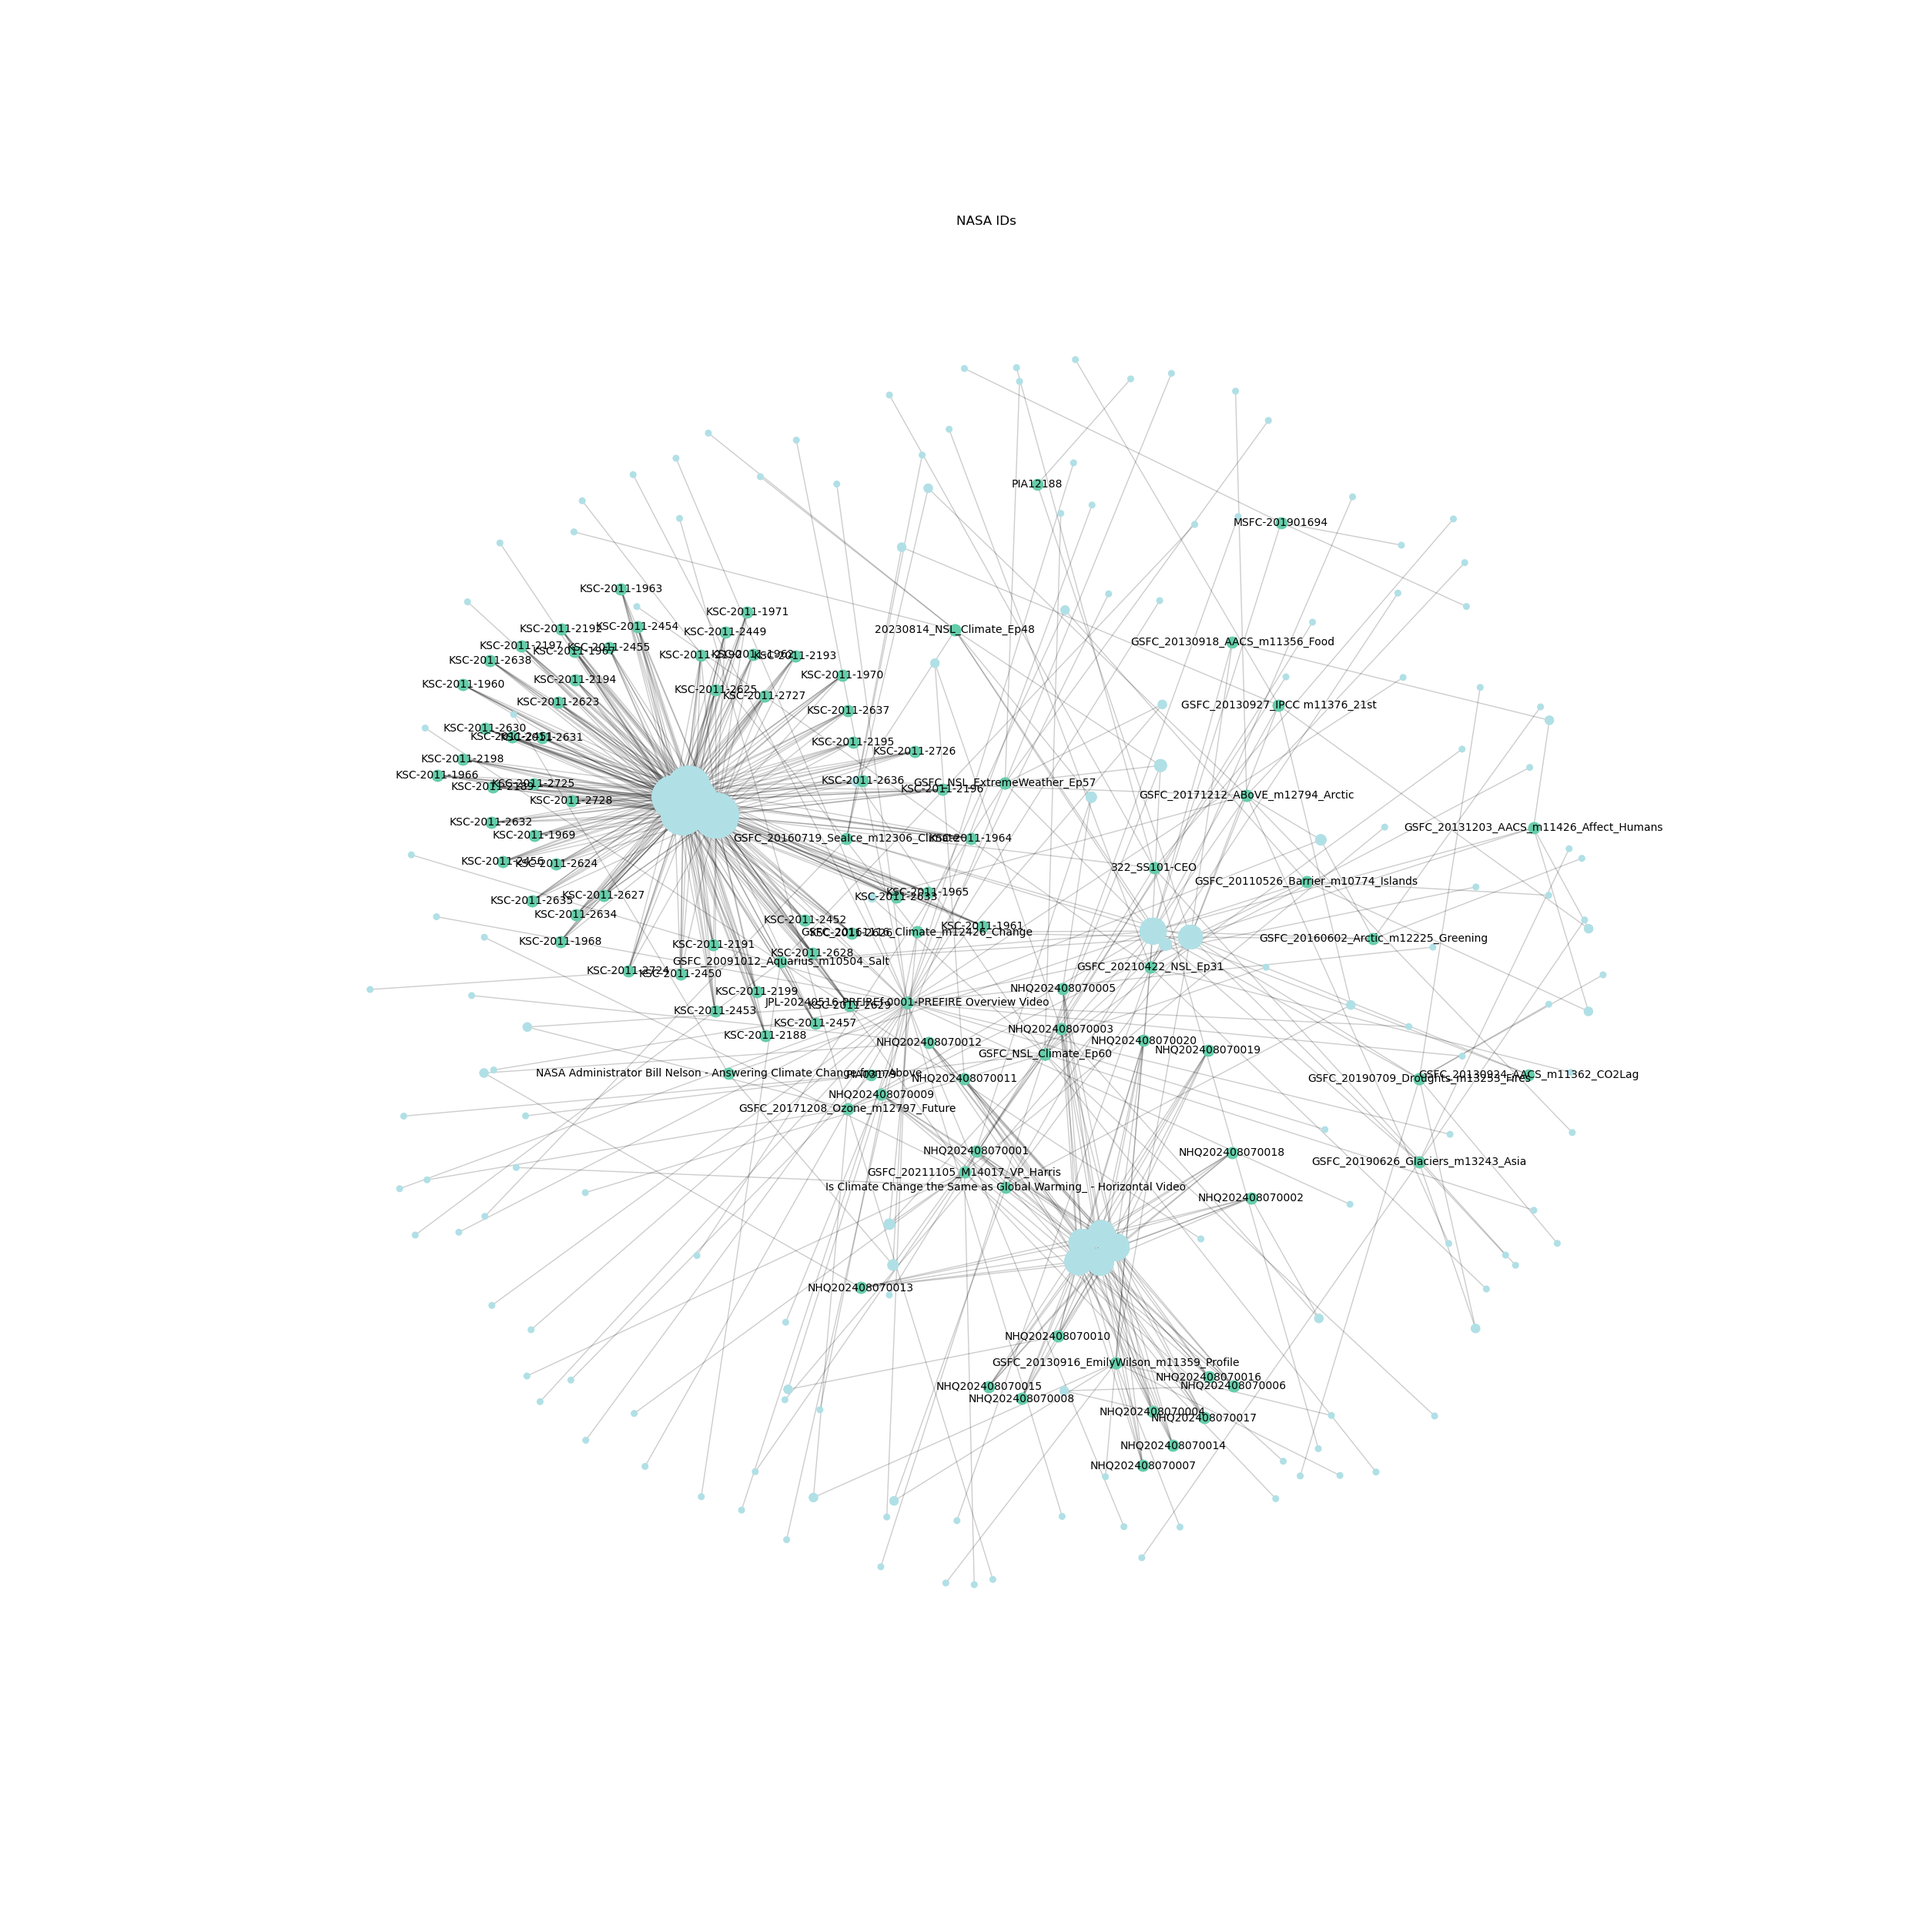
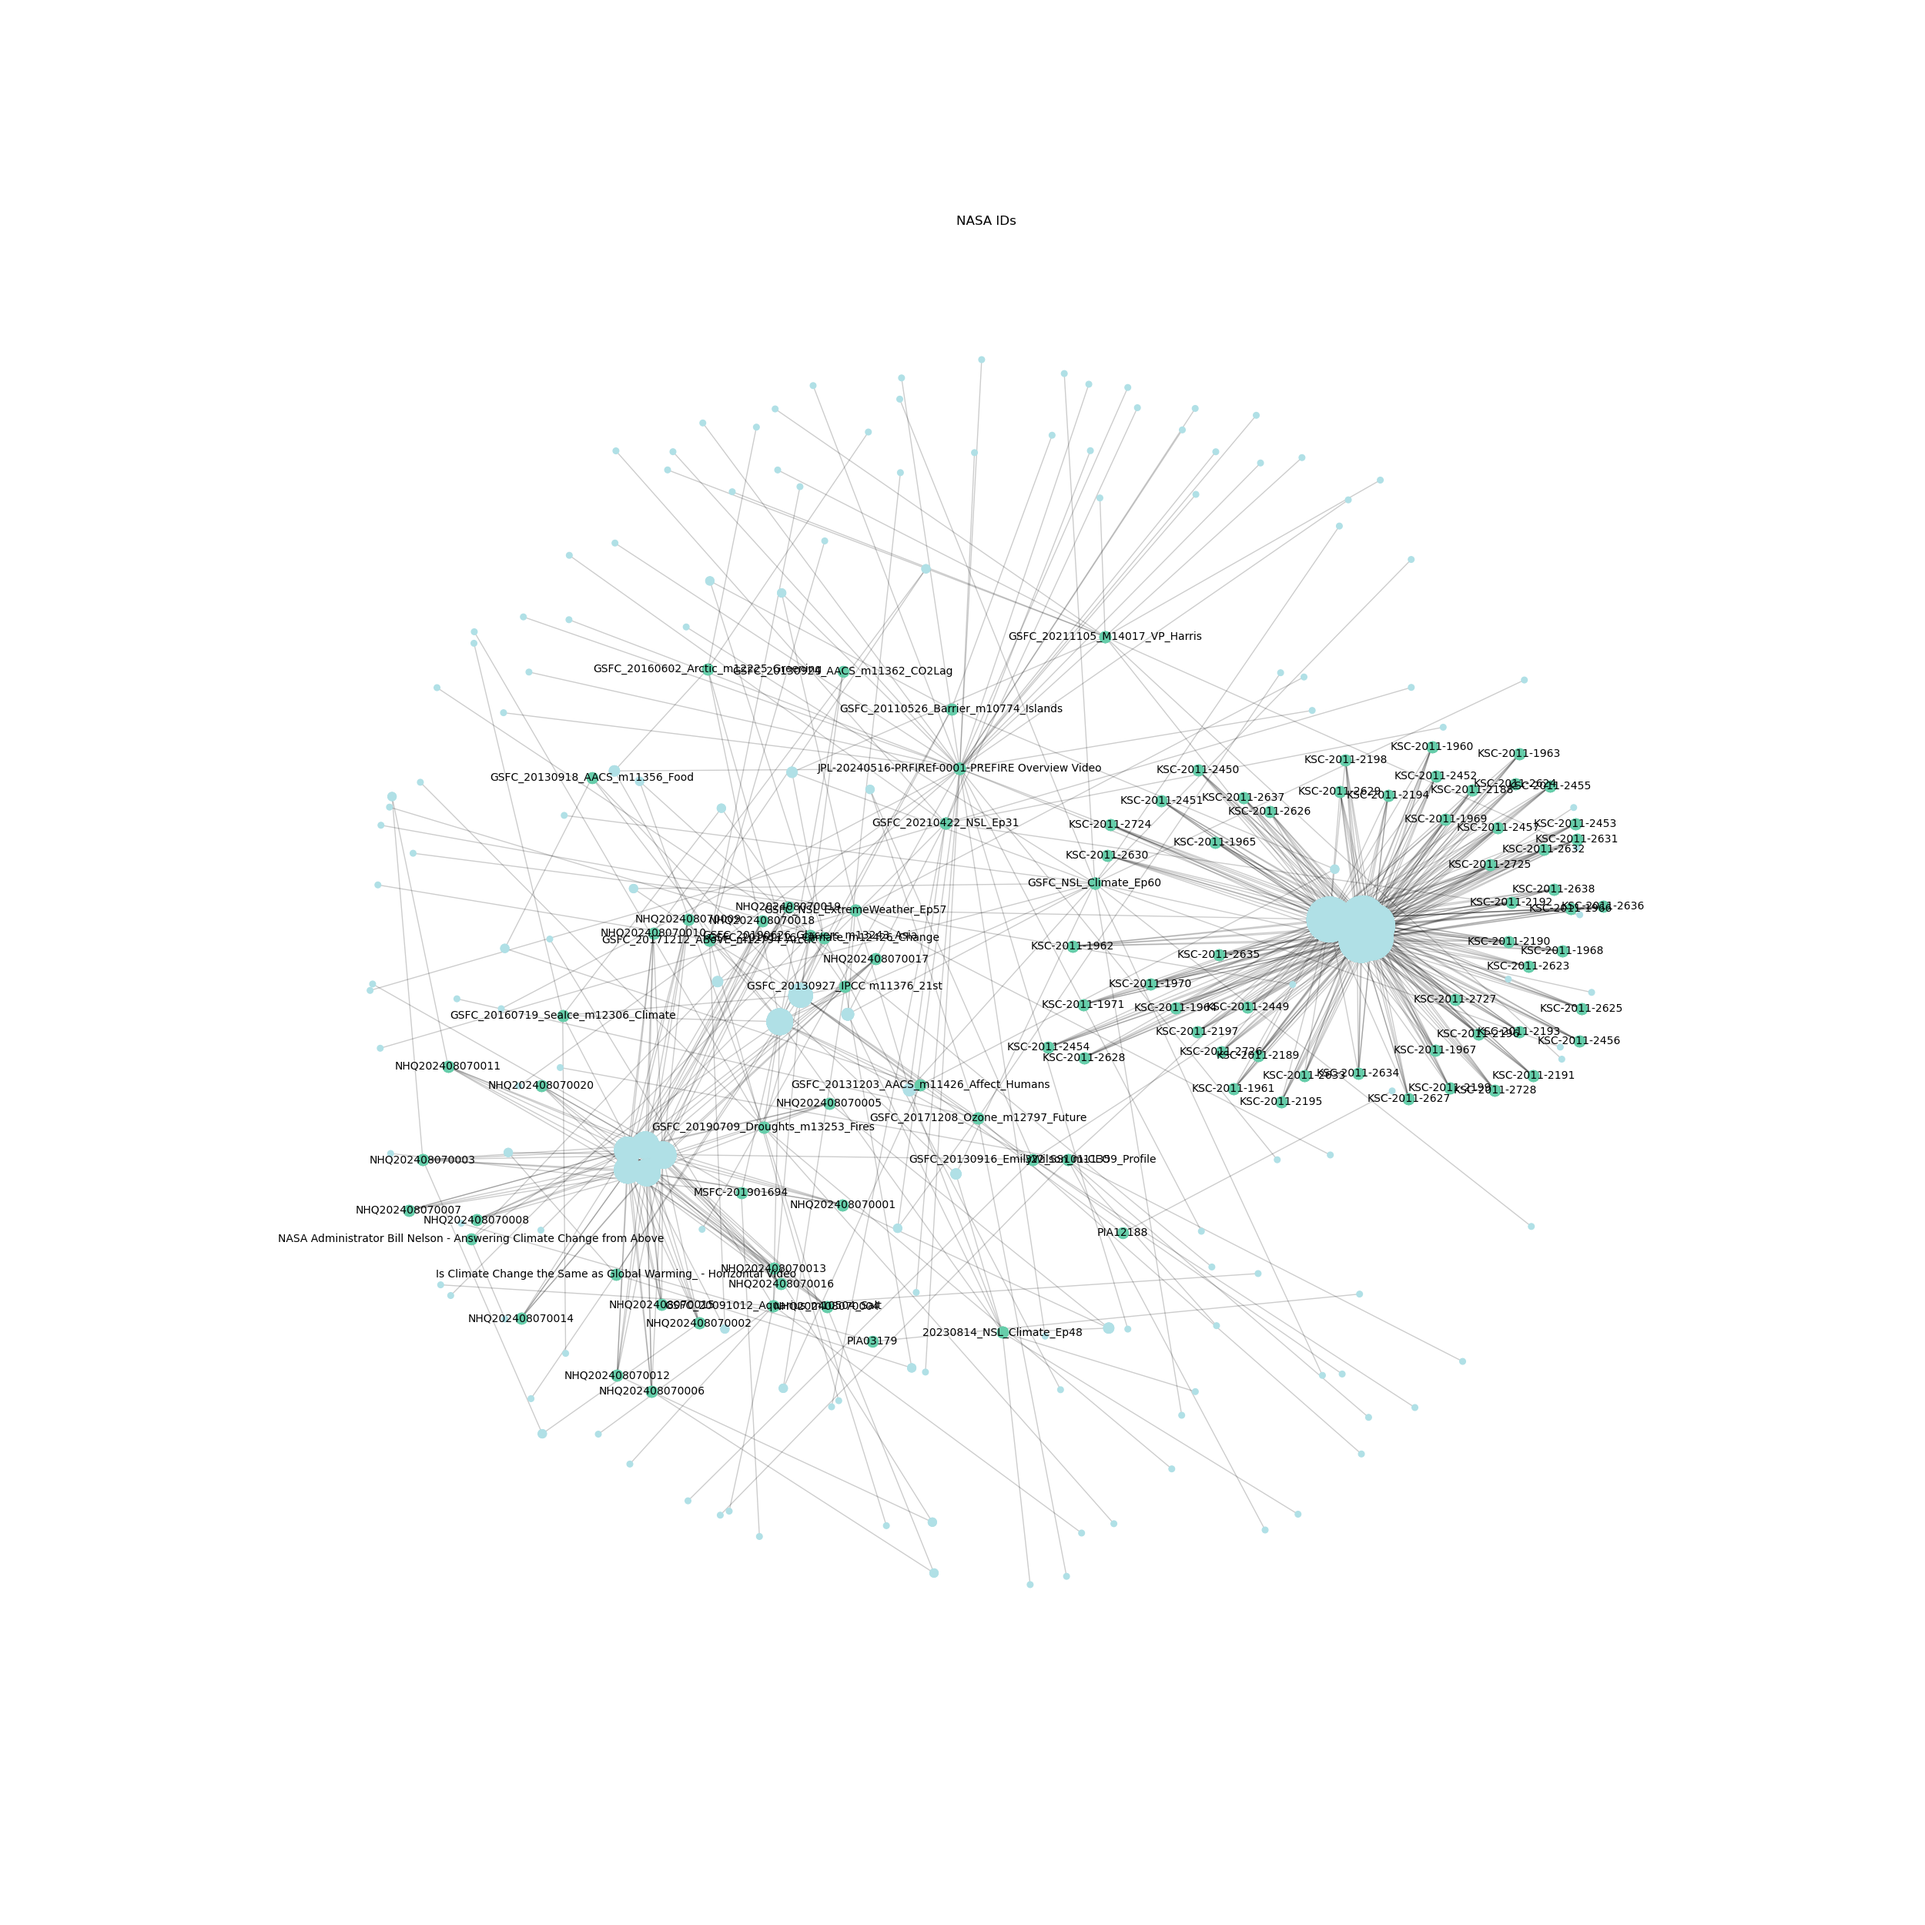
Updating description

diff --git a/index.md b/index.md
@@ -5,23 +5,22 @@ layout: default
 # Overview
 
 ### Goals
-My aim with this project was to use the NASA Image and Video Library to create visualizations to demonstrate the way language has been associated with images and videos over time. I wanted this project to encourage viewers to think about metadata and how we describe images.
+My aim with this project was to use the NASA Image and Video Library to create visualizations that demonstrate the way language is associated with images. I wanted this project to encourage viewers to think about metadata and how we describe images through keywords, titles, and decriptions. I also wanted to depict the words that appears frequently in the metadata of these images. Although these visualizations were created using a relatively small dataset, I hope that there is a depiction of the range of words that are related to different pieces of information about an image or video.
 
 ### Process
 1. I began with creating a data frame of the subjects I was interested in working with (keywords, titles, etc.).
-2. I attempted to paginate through about 18 pages of search results- I later realized this did not work.
-3. I used **OpenRefine** to organize the data and remove unecessary punctuation and text. I returned to OpenRefine frequently throughout this process to create various graphs.
-4. I created a few graphs and visualizations with the data from one page of search results (100 results total). I began by trying to make various bar charts, byt these did not work well with my data frame or in demonstrating how words were related to each other.
+2. I attempted to paginate through 18 pages of search results. I later realized this did not work.
+3. I used **OpenRefine** to organize the data and remove unecessary punctuation and text. I returned to OpenRefine frequently throughout this process to help in creating different graphs.
+4. I created a few graphs and visualizations with the data from one page of search results (100 results total). I began by trying to make various bar charts, but these did not work well with my data frame or in demonstrating how words were related to each other.
 5. I learned how to make word clouds, which guided my the visualizations I chose to make moving forward.
-6. I attempted to create a text network graph with **networkx**, it was successful but very messy, so I returned to working with the data.
-7. I created a new data frame that separated all of the keywords.
-8. I used this to create multiple text networks that displayed relationships between keywords, titles, and NASA IDs.
+6. I attempted to create a text network with **networkx**, it was successful but very messy, so I returned to working with the data in **OpenRefine**.
+7. I created a new data frame that separated all of the keywords and enabled me to create neater text networks.
+8. I used this to create text networks that displayed relationships between keywords, titles, and NASA IDs.
 
 ### Challenges
 - Unable to paginate through the results.
 - Because I could not get thorough data on the dates created for each image/video, it did not seem like I could create graphs that demonstrated anything accurate about the quantity of images/videos posted over time.
-- It took a while to figure out what graphs I could create interesting visualizations with using this data.
-- Had issues achieving some of the things I had hoped to do (connecting keywords or IDs to links to the photos, creating a hover feature over the text network graphs so that the text would be less cluttered, creating bar graphs that depicted the data in an interesting way)
+- Had issues achieving some of the things I had hoped to do (connecting keywords or IDs to links to the photos, creating a hover feature over the text network graphs so that the text would be more readable or include more information).
 
 ## Making a Data Frame
 ```
@@ -106,7 +105,7 @@ I created a few simple bar graphs that depict the counts of some of the data.
 ![Bar chart of the most frequent titles](images/titles_chart.png) ![Bar chart of the most frequently appearing keywords](images/keywords_chart.png)
 
 ## Word Clouds
-I learned how to create word clouds. This was a fun step in this process. It helped me better understand the data I was working with and some more direction on what I could create with it.
+I learned how to create word clouds. This step helped me better understand the data I was working with and provided me with more direction on what I could create with it.
 
 ### Word cloud based on keywords
 ![Text from keywords](images/nasa_wordcloud3.png)
@@ -119,11 +118,15 @@ I learned how to create word clouds. This was a fun step in this process. It hel
 
 
 ## Text Networks
-I ultimately decided to create text networks visualizations as a way to depict the connections between the many keywords in this data frame. This was another fun step that took some trial and error, and that gave me some practice with libraries in python including **networkx** and **matplotlib**. I also experimented with some libraries that I didn't end up using, but am hoping to learn more about, such as **bokeh** and **seaborn**.
+I ultimately decided to create text networks visualizations as a way to depict the connections between the keywords in this data frame. This step that took some trial and error, gave me lots of practice with libraries in python including **networkx** and **matplotlib**. I also experimented with some libraries that I didn't end up using, but am hoping to learn more about, such as **bokeh** and **seaborn**.
 
 ### Text network connecting keywords and NASA IDs (displaying keywords)
 
 ![Text network displaying keywords](images/keywords_display.png)
+
+### Text network connecting keywords and NASA IDs (displaying IDs)
+
+![Text network displaying IDs](images/nasa_ids_display.png)
 
 ### Text network connecting keywords and titles
 
@@ -135,7 +138,7 @@ I ultimately decided to create text networks visualizations as a way to depict t
 - Improving the text network visualizations.
 - Continue to work on adding links and hover features.
 - Create more detailed bar graphs to display the data.
-- Paginate through more pages to create more extensive data frames and create interesting graphs based on dates.
+- Paginate through the query results to create more extensive data frames and graphs that include additional information like creation dates.
 - Create visualizations from different queries and keywords.
 
 ## Thank you!
